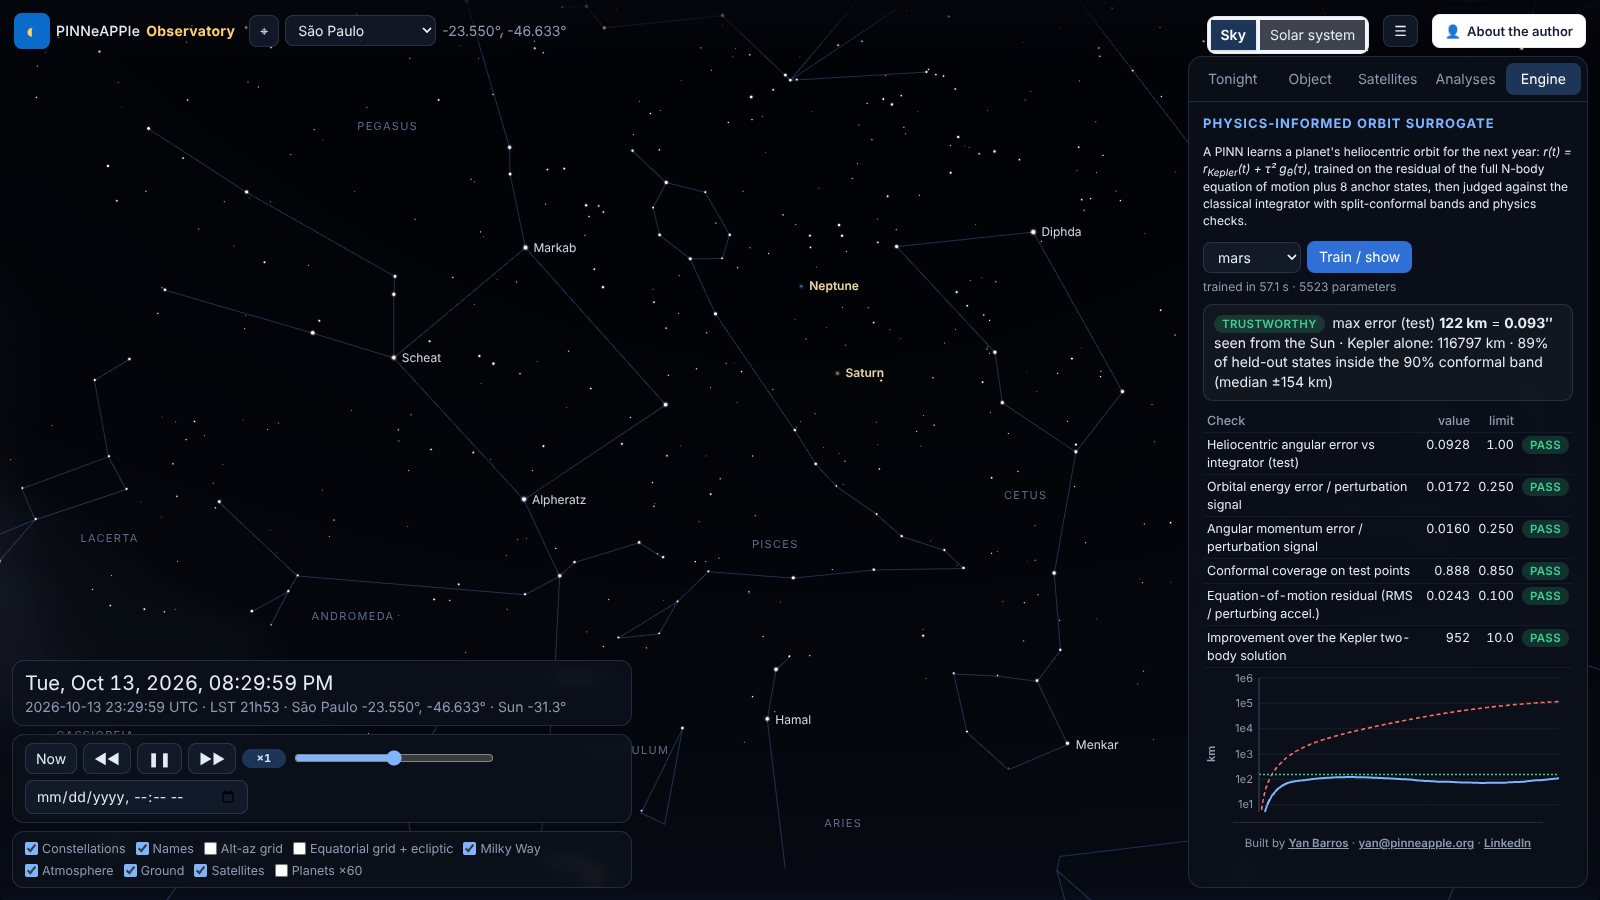
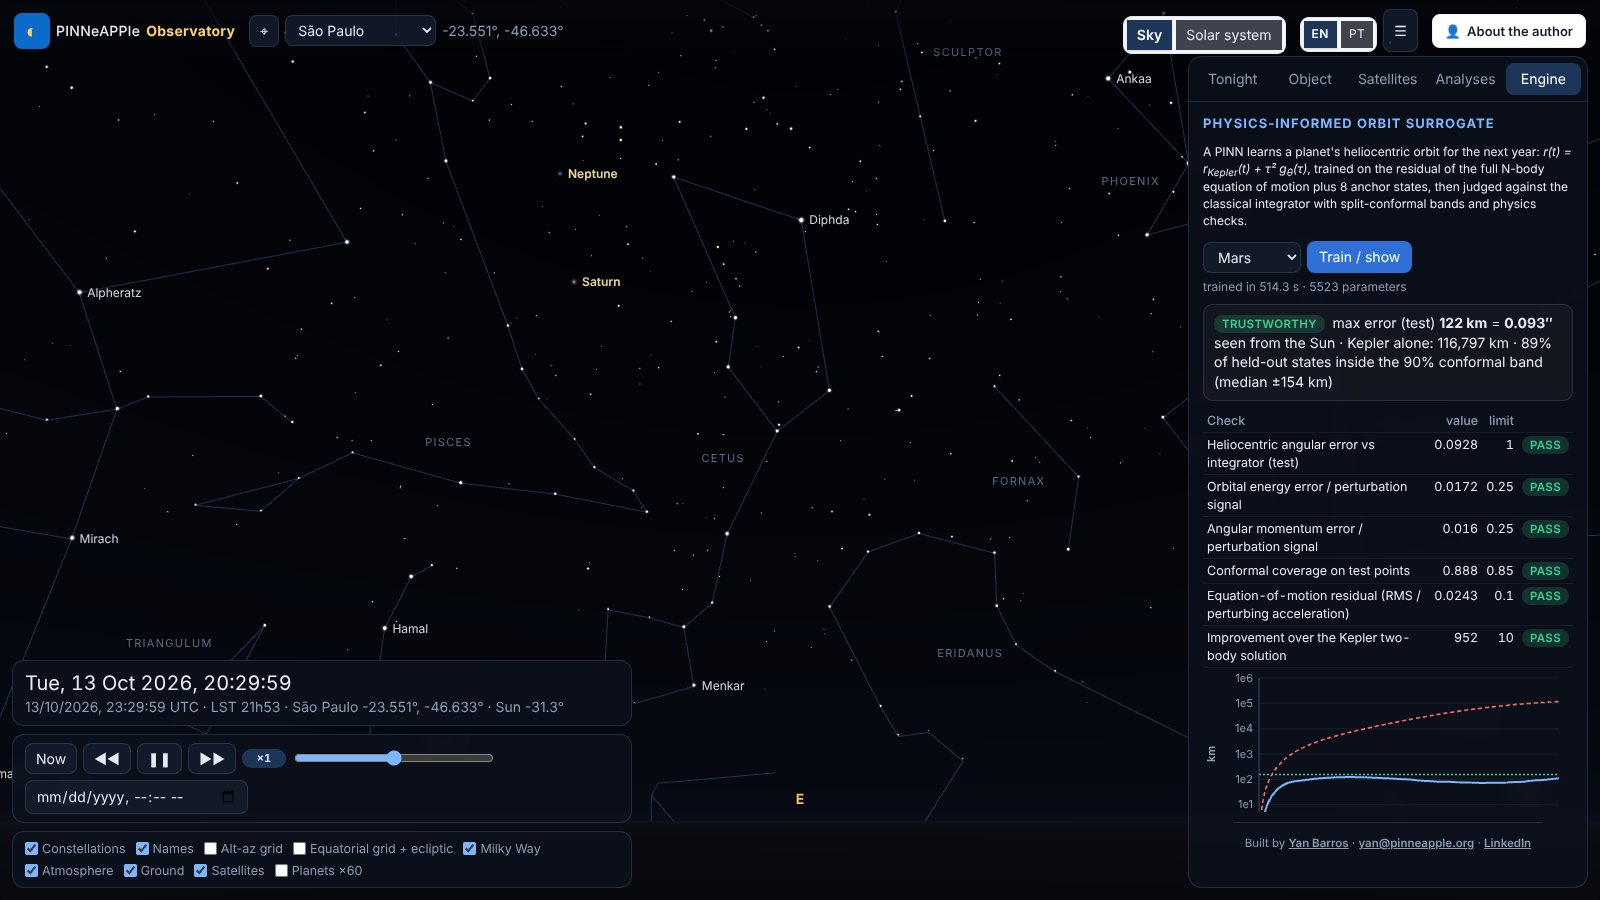
Observatory screenshots in English and Portuguese (system, engine, lensing)

diff --git a/apps/observatory/observatory/static/app.js b/apps/observatory/observatory/static/app.js
@@ -610,7 +610,7 @@ function renderAnalyses() {
     img.onload = () => {
       $("#aLensOut").innerHTML = ""; $("#aLensOut").appendChild(img);
       $("#aLensOut").insertAdjacentHTML("beforeend", `<p class="small">${t("an.lensOut", { ra: fmtRA(ra), dec: fmtDec(dec), rc, n: nb, mag: bm })}${disc ? " · " + t("an.lensDisc") : ""}.</p>
-      <table><tr><th>${t("an.bhCol")}</th><th class="r">${t("an.shadowPred")}</th><th class="r">${t("an.ehtRing")}</th><th class="r">σ</th></tr>${info.eht.map((r) => `<tr><td>${esc(r.object)}</td><td class="r">${num(r.predicted_uas, 1)} µas</td><td class="r">${r.observed_uas} ± ${r.observed_err_uas}</td><td class="r">${num(r.sigma, 2)}</td></tr>`).join("")}</table>
+      <table><tr><th>${t("an.bhCol")}</th><th class="r">${t("an.shadowPred")}</th><th class="r">${t("an.ehtRing")}</th><th class="r">σ</th></tr>${info.eht.map((r) => `<tr><td>${esc(r.object)}</td><td class="r">${num(r.predicted_uas, 1)} µas</td><td class="r">${num(r.observed_uas, 1)} ± ${num(r.observed_err_uas, 1)}</td><td class="r">${num(r.sigma, 2)}</td></tr>`).join("")}</table>
       <p class="small muted">${t("an.sunDefl", { v: num(info.sun_deflection_arcsec, 3) })} ${t("method.lensing")}.</p>`);
     };
     img.onerror = () => { $("#aLensOut").textContent = t("err.render"); };
